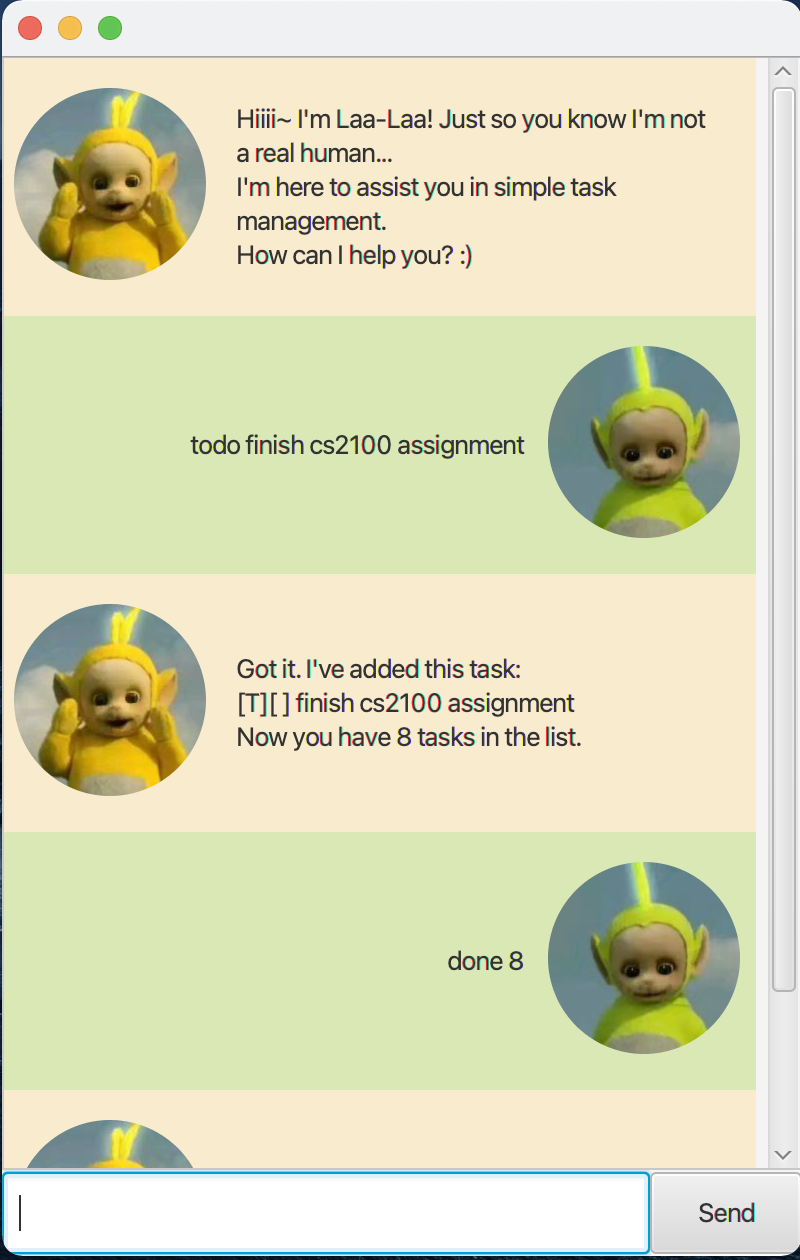
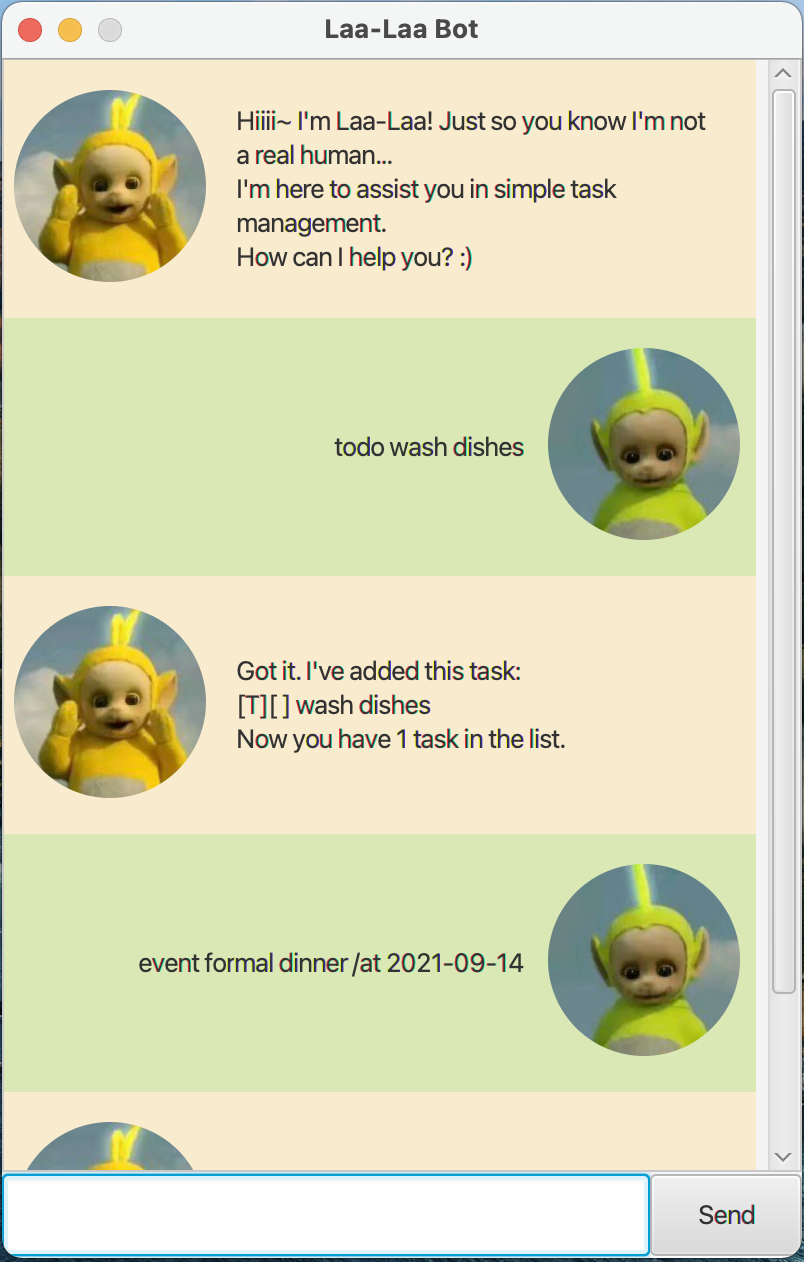
Add product name in the title bar of the window and disable resizing window option

diff --git a/src/main/java/duke/Main.java b/src/main/java/duke/Main.java
@@ -12,6 +12,8 @@ import javafx.stage.Stage;
  * A GUI for Duke using FXML.
  */
 public class Main extends Application {
+    private static final String TITLE = "Laa-Laa Bot";
+    private static final boolean IS_RESIZABLE = false;
 
     private Duke duke = new Duke();
 
@@ -22,6 +24,8 @@ public class Main extends Application {
             AnchorPane ap = fxmlLoader.load();
             Scene scene = new Scene(ap);
             stage.setScene(scene);
+            stage.setTitle(TITLE);
+            stage.setResizable(IS_RESIZABLE);
             fxmlLoader.<MainWindow>getController().setDuke(duke);
             stage.show();
         } catch (IOException e) {
